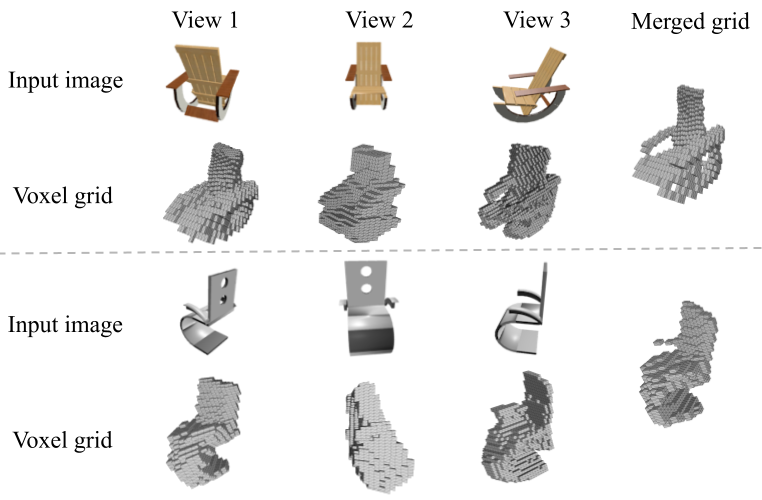
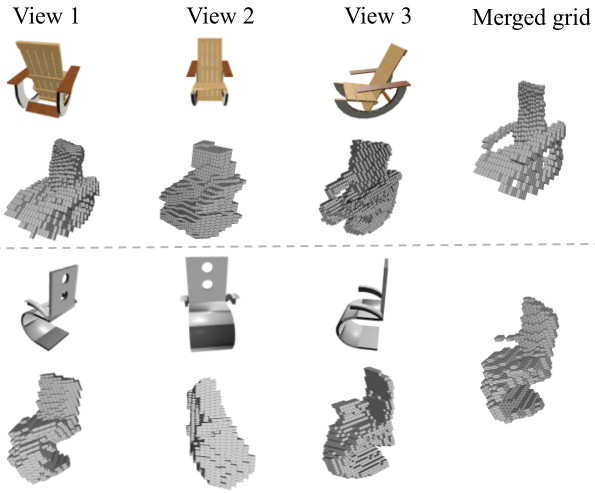
initial_vox image annotation removed, caption expanded

diff --git a/body/method.tex b/body/method.tex
@@ -45,7 +45,7 @@ The final voxel probability $x$ is obtained by applying the inverse function of 
     \begin{center}
         \includegraphics[width=\linewidth]{imgs/initial_vox.png}
     \end{center}
-        \caption{\textbf{Voxel grid prediction of individual views along with probabilistically merged grid}. The merged grid can take into account the visibility limitations in single view predictions and produce better quality initial shape.}
+        \caption{\textbf{Two examples of voxel grid prediction of individual views along with probabilistically merged grid}. For each example, top row: input images, bottom row: single-view voxel grid prediction of the corresponding images transformed to the same coordinate frame. The merged grid can take into account the visibility limitations in single view predictions and produce better quality initial shape.}
         \label{fig:initial_vox}
 \end{figure}
 
